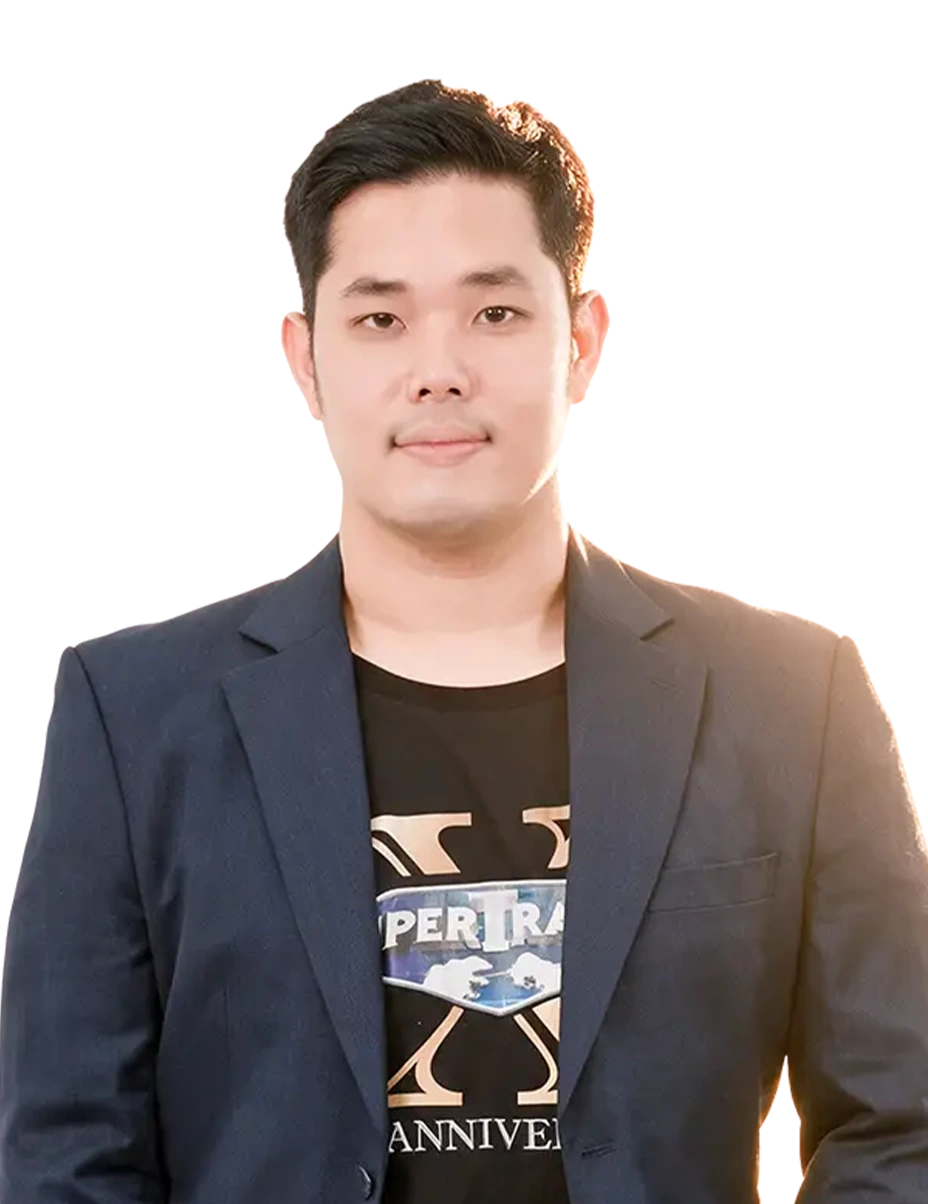
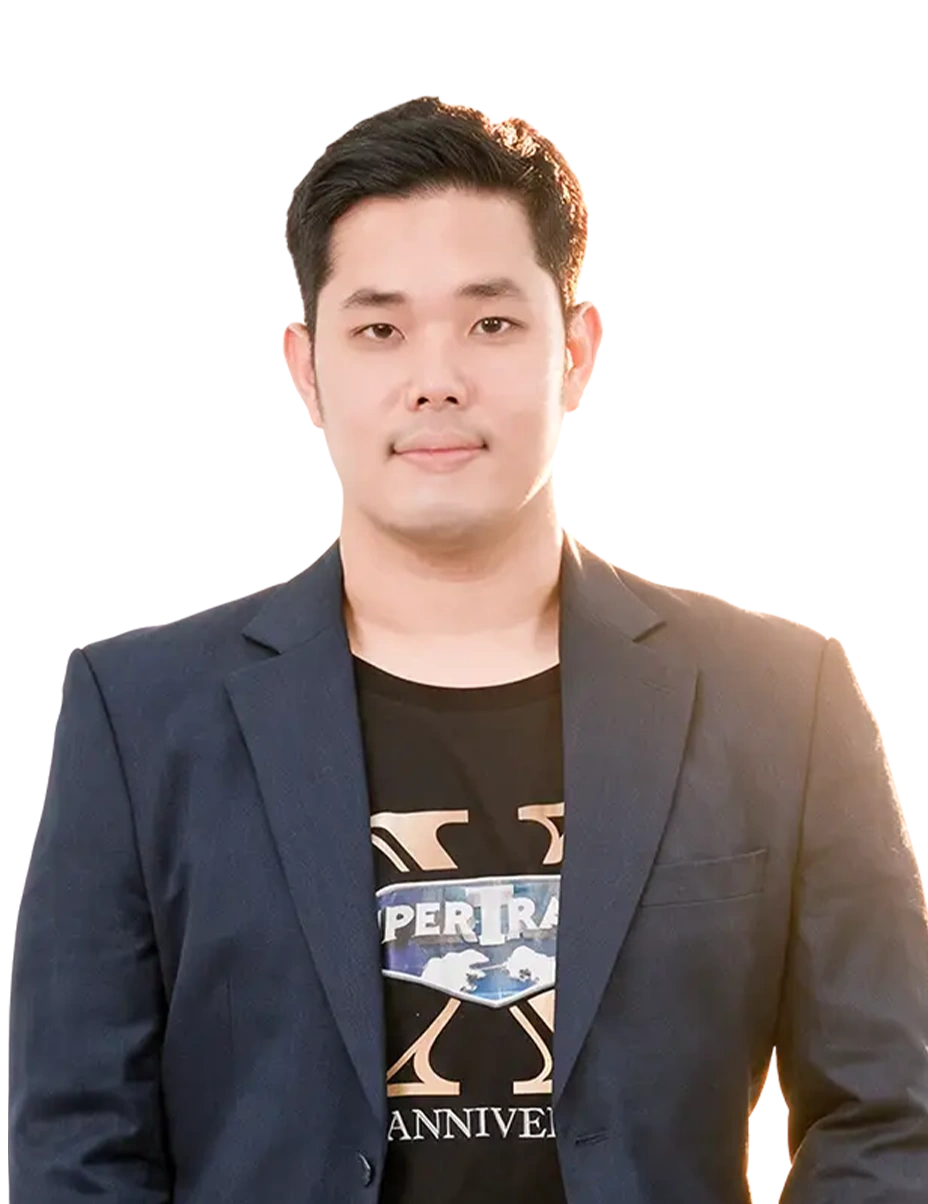
Agenda/speakers: คุณกรณ์, คุณคมศักดิ์, real roles, refreshed photos
- Agenda: คุณกรณ์ จาติกวณิช with photo replaces TBD; VALUE OF ART adds
  คุณคมศักดิ์ ปอประสิทธิ์ with photo
- Speaker directory: real roles for the new speakers, add คุณคมศักดิ์
- Refreshed coach/ณัฐดนัย photos and hero speaker image
- Cache bust: hero-speaker.webp?v=5, speaker-directory.js?v=44

diff --git a/index.html b/index.html
@@ -299,7 +299,7 @@
 
                 <div class="hero__visual col-12 col-lg-6 col-xl-7">
                     <figure class="hero__speakers">
-                        <img src="images/hero-speaker.webp?v=4" width="1080" height="1350"
+                        <img src="images/hero-speaker.webp?v=5" width="1080" height="1350"
                             alt="วิทยากรในงาน BetterTrade 2026 — 30+ Speakers, 20+ Sessions, 2 Days" fetchpriority="high">
                     </figure>
                 </div>
@@ -614,13 +614,11 @@
                                             <td>
                                                 <p class="agenda__session-title">MONEY IS CHANGING</p>
                                                 <p class="agenda__session-summary">เงินที่เรารู้จัก กำลังไม่เหมือนเดิม</p>
-                                                <p class="agenda__session-speaker">To Be Determined</p>
+                                                <p class="agenda__session-speaker">คุณกรณ์ จาติกวณิช</p>
                                             </td>
-                                            <td class="agenda__speakers"><span class="agenda__speaker-frame" aria-label="พื้นที่รูปโปรไฟล์วิทยากร"><span class="agenda__speaker-photo"><img src="images/agenda/profile-empty.webp" width="928" height="1152" loading="lazy" decoding="async" alt=""></span></span></td>
-                                            <!-- <td class="agenda__speakers">
-                                                <span class="agenda__speaker-frame" aria-label="พื้นที่รูปโปรไฟล์วิทยากรคนที่ 1"><span class="agenda__speaker-photo"><img src="images/agenda/profile-empty.webp" width="928" height="1152" loading="lazy" decoding="async" alt=""></span></span>
-                                                <span class="agenda__speaker-frame" aria-label="พื้นที่รูปโปรไฟล์วิทยากรคนที่ 2"><span class="agenda__speaker-photo"><img src="images/agenda/profile-empty.webp" width="928" height="1152" loading="lazy" decoding="async" alt=""></span></span>
-                                            </td> -->
+                                            <td class="agenda__speakers">
+                                                <span class="agenda__speaker-frame" aria-label="พื้นที่รูปโปรไฟล์วิทยากรคนที่ 1"><span class="agenda__speaker-photo"><img src="images/agenda/day-1/D1-กรณ์-จาติกวณิช.webp" width="240" height="240" loading="lazy" decoding="async" alt="คุณกรณ์ จาติกวณิช"></span></span>
+                                            </td>
                                         </tr>
                                         <tr>
                                             <th scope="row"><time>14:10 – 14:40</time></th>
@@ -670,7 +668,8 @@
                                                 <p class="agenda__session-speaker">คุณธนรัชต์ พสวงศ์</p>
                                             </td>
                                             <td class="agenda__speakers">
-                                                <span class="agenda__speaker-frame" aria-label="พื้นที่รูปโปรไฟล์วิทยากร"><span class="agenda__speaker-photo"><img src="images/agenda/day-1/D1-ธนรัชต์-พสวงศ์.webp" width="240" height="240" loading="lazy" decoding="async" alt="คุณธนรัชต์ พสวงศ์"></span></span>
+                                                <span class="agenda__speaker-frame" aria-label="พื้นที่รูปโปรไฟล์วิทยากรคนที่ 1"><span class="agenda__speaker-photo"><img src="images/agenda/day-1/D1-ธนรัชต์-พสวงศ์.webp" width="240" height="240" loading="lazy" decoding="async" alt="คุณธนรัชต์ พสวงศ์"></span></span>
+                                                <!-- <span class="agenda__speaker-frame" aria-label="พื้นที่รูปโปรไฟล์วิทยากรคนที่ 2"><span class="agenda__speaker-photo"><img src="images/agenda/profile-empty.webp" width="928" height="1152" loading="lazy" decoding="async" alt=""></span></span> -->
                                             </td>
                                         </tr>
                                         <tr>
@@ -987,11 +986,11 @@
                                             <td>
                                                 <p class="agenda__session-title">VALUE OF ART</p>
                                                 <p class="agenda__session-summary">ศิลปะ มูลค่าทางใจ ที่ราคาเป็นล้าน</p>
-                                                <p class="agenda__session-speaker">คุณกฤษฎิ์ ชวาลรัตน์</p>
+                                                <p class="agenda__session-speaker">คุณกฤษฎิ์ ชวาลรัตน์ และคุณคมศักดิ์ ปอประสิทธิ์</p>
                                             </td>
                                             <td class="agenda__speakers">
                                                 <span class="agenda__speaker-frame" aria-label="พื้นที่รูปโปรไฟล์วิทยากรคนที่ 1"><span class="agenda__speaker-photo"><img src="images/agenda/day-2/D2-กฤษฎิ์-ชวาลรัตน์.webp" width="240" height="240" loading="lazy" decoding="async" alt="คุณกฤษฎิ์ ชวาลรัตน์"></span></span>
-                                                <!-- <span class="agenda__speaker-frame" aria-label="พื้นที่รูปโปรไฟล์วิทยากรคนที่ 2"><span class="agenda__speaker-photo"><img src="images/agenda/profile-empty.webp" width="928" height="1152" loading="lazy" decoding="async" alt=""></span></span> -->
+                                                <span class="agenda__speaker-frame" aria-label="พื้นที่รูปโปรไฟล์วิทยากรคนที่ 1"><span class="agenda__speaker-photo"><img src="images/agenda/day-2/D2-คมศักดิ์-ปอประสิทธิ์.webp" width="240" height="240" loading="lazy" decoding="async" alt="คุณคมศักดิ์ ปอประสิทธิ์"></span></span>
                                             </td>
                                         </tr>
                                         <tr>
@@ -2437,7 +2436,7 @@
     <script src="js/action-button.js"></script>
     <script src="js/ticket-price-selector.js?v=3"></script>
     <script src="js/agenda-tabs.js?v=30"></script>
-    <script src="js/speaker-directory.js?v=43"></script>
+    <script src="js/speaker-directory.js?v=44"></script>
     <script src="js/moderator-directory.js?v=1"></script>
     <script src="js/expectation-counter.js?v=2"></script>
     <script src="js/floor-plan-reveal.js?v=3"></script>

diff --git a/js/speaker-directory.js b/js/speaker-directory.js
@@ -18,7 +18,7 @@
             },
             {
                 name: 'คุณกรณ์ จาติกวณิช',
-                role: 'Lorem ipsum dolor sit amet.',
+                role: 'อดีตรัฐมนตรีว่าการกระทรวงการคลัง และสมาชิกกิตติมศักดิ์สมาคมนักวางแผนการเงินไทย',
                 image: 'day-1/D1-กรณ์-จาติกวณิช.webp',
             },
             {
@@ -68,17 +68,17 @@
             },
             {
                 name: 'อาจารย์ขิง สิรภพ นิลบดี',
-                role: 'Lorem ipsum dolor sit amet.',
+                role: 'Head of Bitcoin Education บริษัท Right Shift',
                 image: 'day-1/D1-อ.ขิง-สิรภพ.webp',
             },
             {
                 name: 'คุณสรวิศ กลั่นแก้ว (โค้ชเจ)',
-                role: 'Lorem ipsum dolor sit amet.',
+                role: 'Super Trader',
                 image: 'day-1/D1-โค้ชเจ.webp',
             },
             {
                 name: 'คุณปริญญา นิรนาทล้ำพงศ์  (โค้ชก้อย)',
-                role: 'Lorem ipsum dolor sit amet.',
+                role: 'Super Trader',
                 image: 'day-1/D1-โค้ชก้อย.webp',
             },
         ],
@@ -95,7 +95,7 @@
             },
             {
                 name: 'คุณณฤทธิ์ โกสาลาทิพย์',
-                role: 'กรรมการผู้จัดการ หัวหน้าสายงานที่ปรึกษาและบริหารการลงทุนลูกค้าบุคคล บริษัทหลักทรัพย์<br class="d-none d-xxl-block">เกียรตินาคินภัทร จำกัด (มหาชน)',
+                role: 'ประธานสายงานที่ปรึกษาและบริหารการลงทุนลูกค้าบุคคล บริษัทหลักทรัพย์ เกียรตินาคินภัทร จำกัด (มหาชน)',
                 image: 'day-2/D2-ณฤทธิ์-โกสาลาทิพย์.webp',
             },
             {
@@ -134,18 +134,23 @@
                 image: 'day-2/D2-กฤษฎิ์-ชวาลรัตน์.webp',
             },
             {
+                name: 'คุณคมศักดิ์ ปอประสิทธิ์',
+                role: 'Investor & Collector',
+                image: 'day-2/D2-คมศักดิ์-ปอประสิทธิ์.webp',
+            },
+            {
                 name: 'คุณณัฐดนัย หวังพระธรรม',
-                role: 'Lorem ipsum dolor sit amet.',
+                role: 'Founder QuantCorner',
                 image: 'day-2/D2-ณัฐดนัย-หวังพระธรรม.webp',
             },
             {
                 name: 'คุณภัค วิทยาพันธ์ประชา (โค้ชเล็ก)',
-                role: 'Lorem ipsum dolor sit amet.',
+                role: 'Super Trader',
                 image: 'day-2/D2-โค้ชเล็ก.webp',
             },
             {
                 name: 'คุณปพนสรรค์ จิรวรรณพันธุ์ (โค้ชบอล)',
-                role: 'Lorem ipsum dolor sit amet.',
+                role: 'Super Trader',
                 image: 'day-2/D2-โค้ชบอล.webp',
             },
         ],
